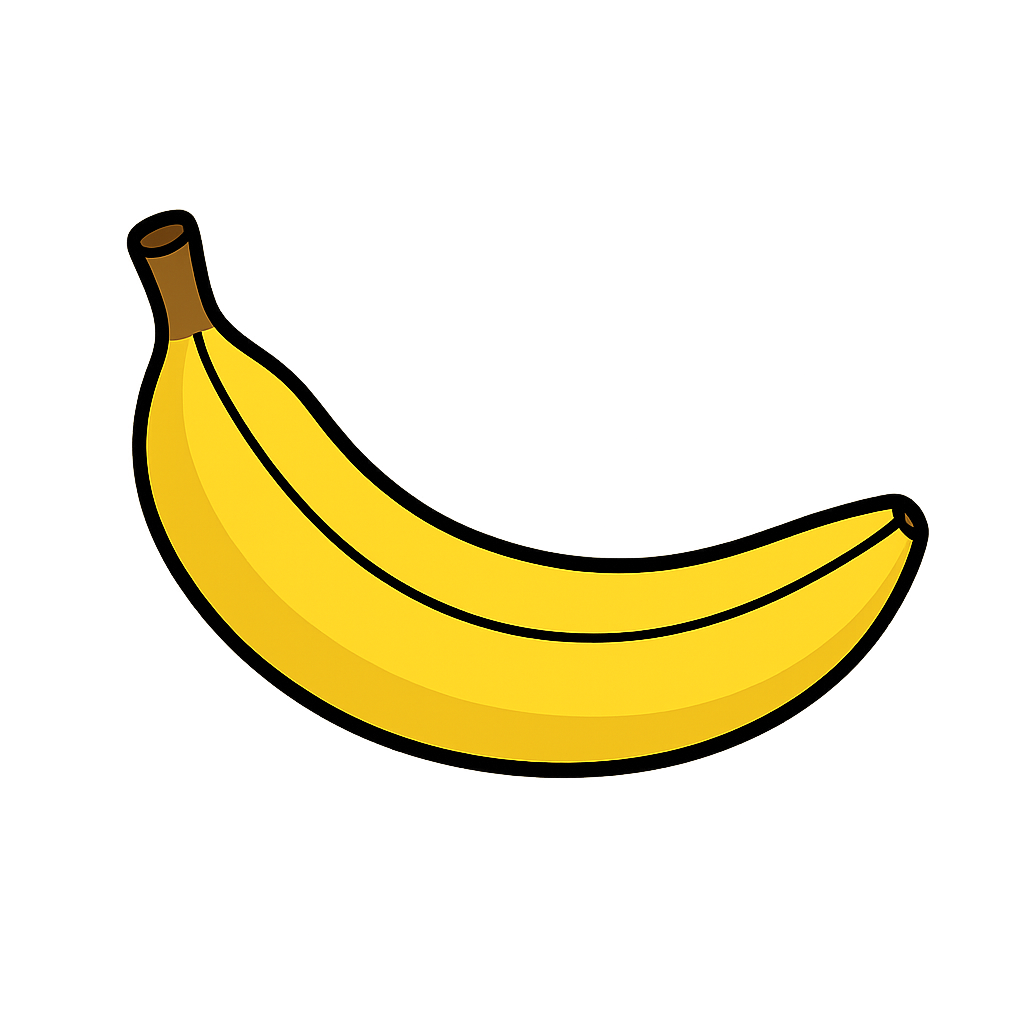
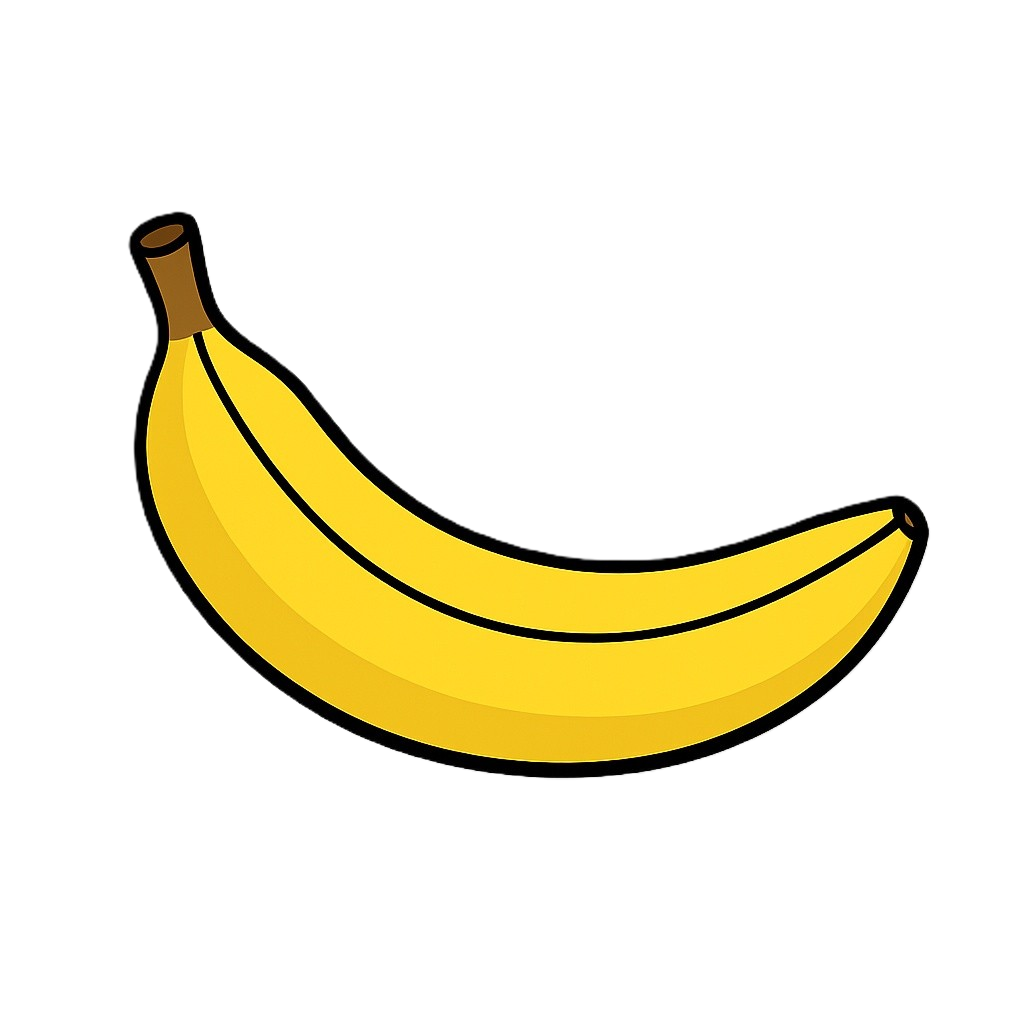
Add files via upload

diff --git a/js/game-data.js b/js/game-data.js
@@ -22,7 +22,7 @@ export const ALL_SKINS = [
         cost: 2500,
         type: 'skin',
         rarity: 'common',
-        description: 'Rayée, pour plus de style.'
+        description: 'Rayée pour plus de style.'
     },
     {
         id: 'blue_banana',
@@ -31,7 +31,7 @@ export const ALL_SKINS = [
         cost: 2000,
         type: 'skin',
         rarity: 'common',
-        description: 'Une banane exotique, couleur azur.'
+        description: 'Une banane exotique couleur azur.'
     },
     {
         id: 'red_banana',
@@ -40,7 +40,7 @@ export const ALL_SKINS = [
         cost: 2000,
         type: 'skin',
         rarity: 'common',
-        description: 'Attention, très mûre !'
+        description: 'Attention très mûre !'
     },
     {
         id: 'pixel_banana',
@@ -206,7 +206,8 @@ export const CRIT_MULTI_UPGRADES = [
 // --- CONFIGURATION DES LOOT BOXES ---
 export const LOOT_BOX_CONFIG = {
     common: {
-        name: "loot-box Commun",
+        name: "loot-box commun",
+        image:'img/loot-box commun',
         value: 5000,
         upgradeChance: 15, // 15% de chance de devenir Rare
         nextTier: 'rare',
@@ -215,7 +216,8 @@ export const LOOT_BOX_CONFIG = {
         skinChance: 10
     },
     rare: {
-        name: "loot-box Rare",
+        name: "loot-box rare",
+        image:'img/loot-box rare',
         value: 15000,
         upgradeChance: 10, // 10% de chance de devenir Épique
         nextTier: 'epic',
@@ -224,7 +226,8 @@ export const LOOT_BOX_CONFIG = {
         skinChance: 20
     },
     epic: {
-        name: "loot-box Épique",
+        name: "loot-box épique",
+        image:'img/loot-box épique',
         value: 40000,
         upgradeChance: 5, // 5% de chance de devenir Légendaire
         nextTier: 'legendary',
@@ -233,7 +236,8 @@ export const LOOT_BOX_CONFIG = {
         skinChance: 35
     },
     legendary: {
-        name: "loot-box Légendaire",
+        name: "loot-box légendaire",
+        image:'img/loot-box légendaire',
         value: 150000,
         upgradeChance: 0,
         moneyRange: [50000, 100000],

diff --git a/js/shop.js b/js/shop.js
@@ -212,6 +212,7 @@ window.playWheel = async (count = 1) => {
 
     }, 3000); // Temps de l'animation unique
 };
+
 // --- 3. EXPOSITION GLOBALE ---
 window.playWheel = playWheel;
 
@@ -252,5 +253,3 @@ function initShop() {
 }
 
 document.addEventListener('DOMContentLoaded', initShop);
-
-
